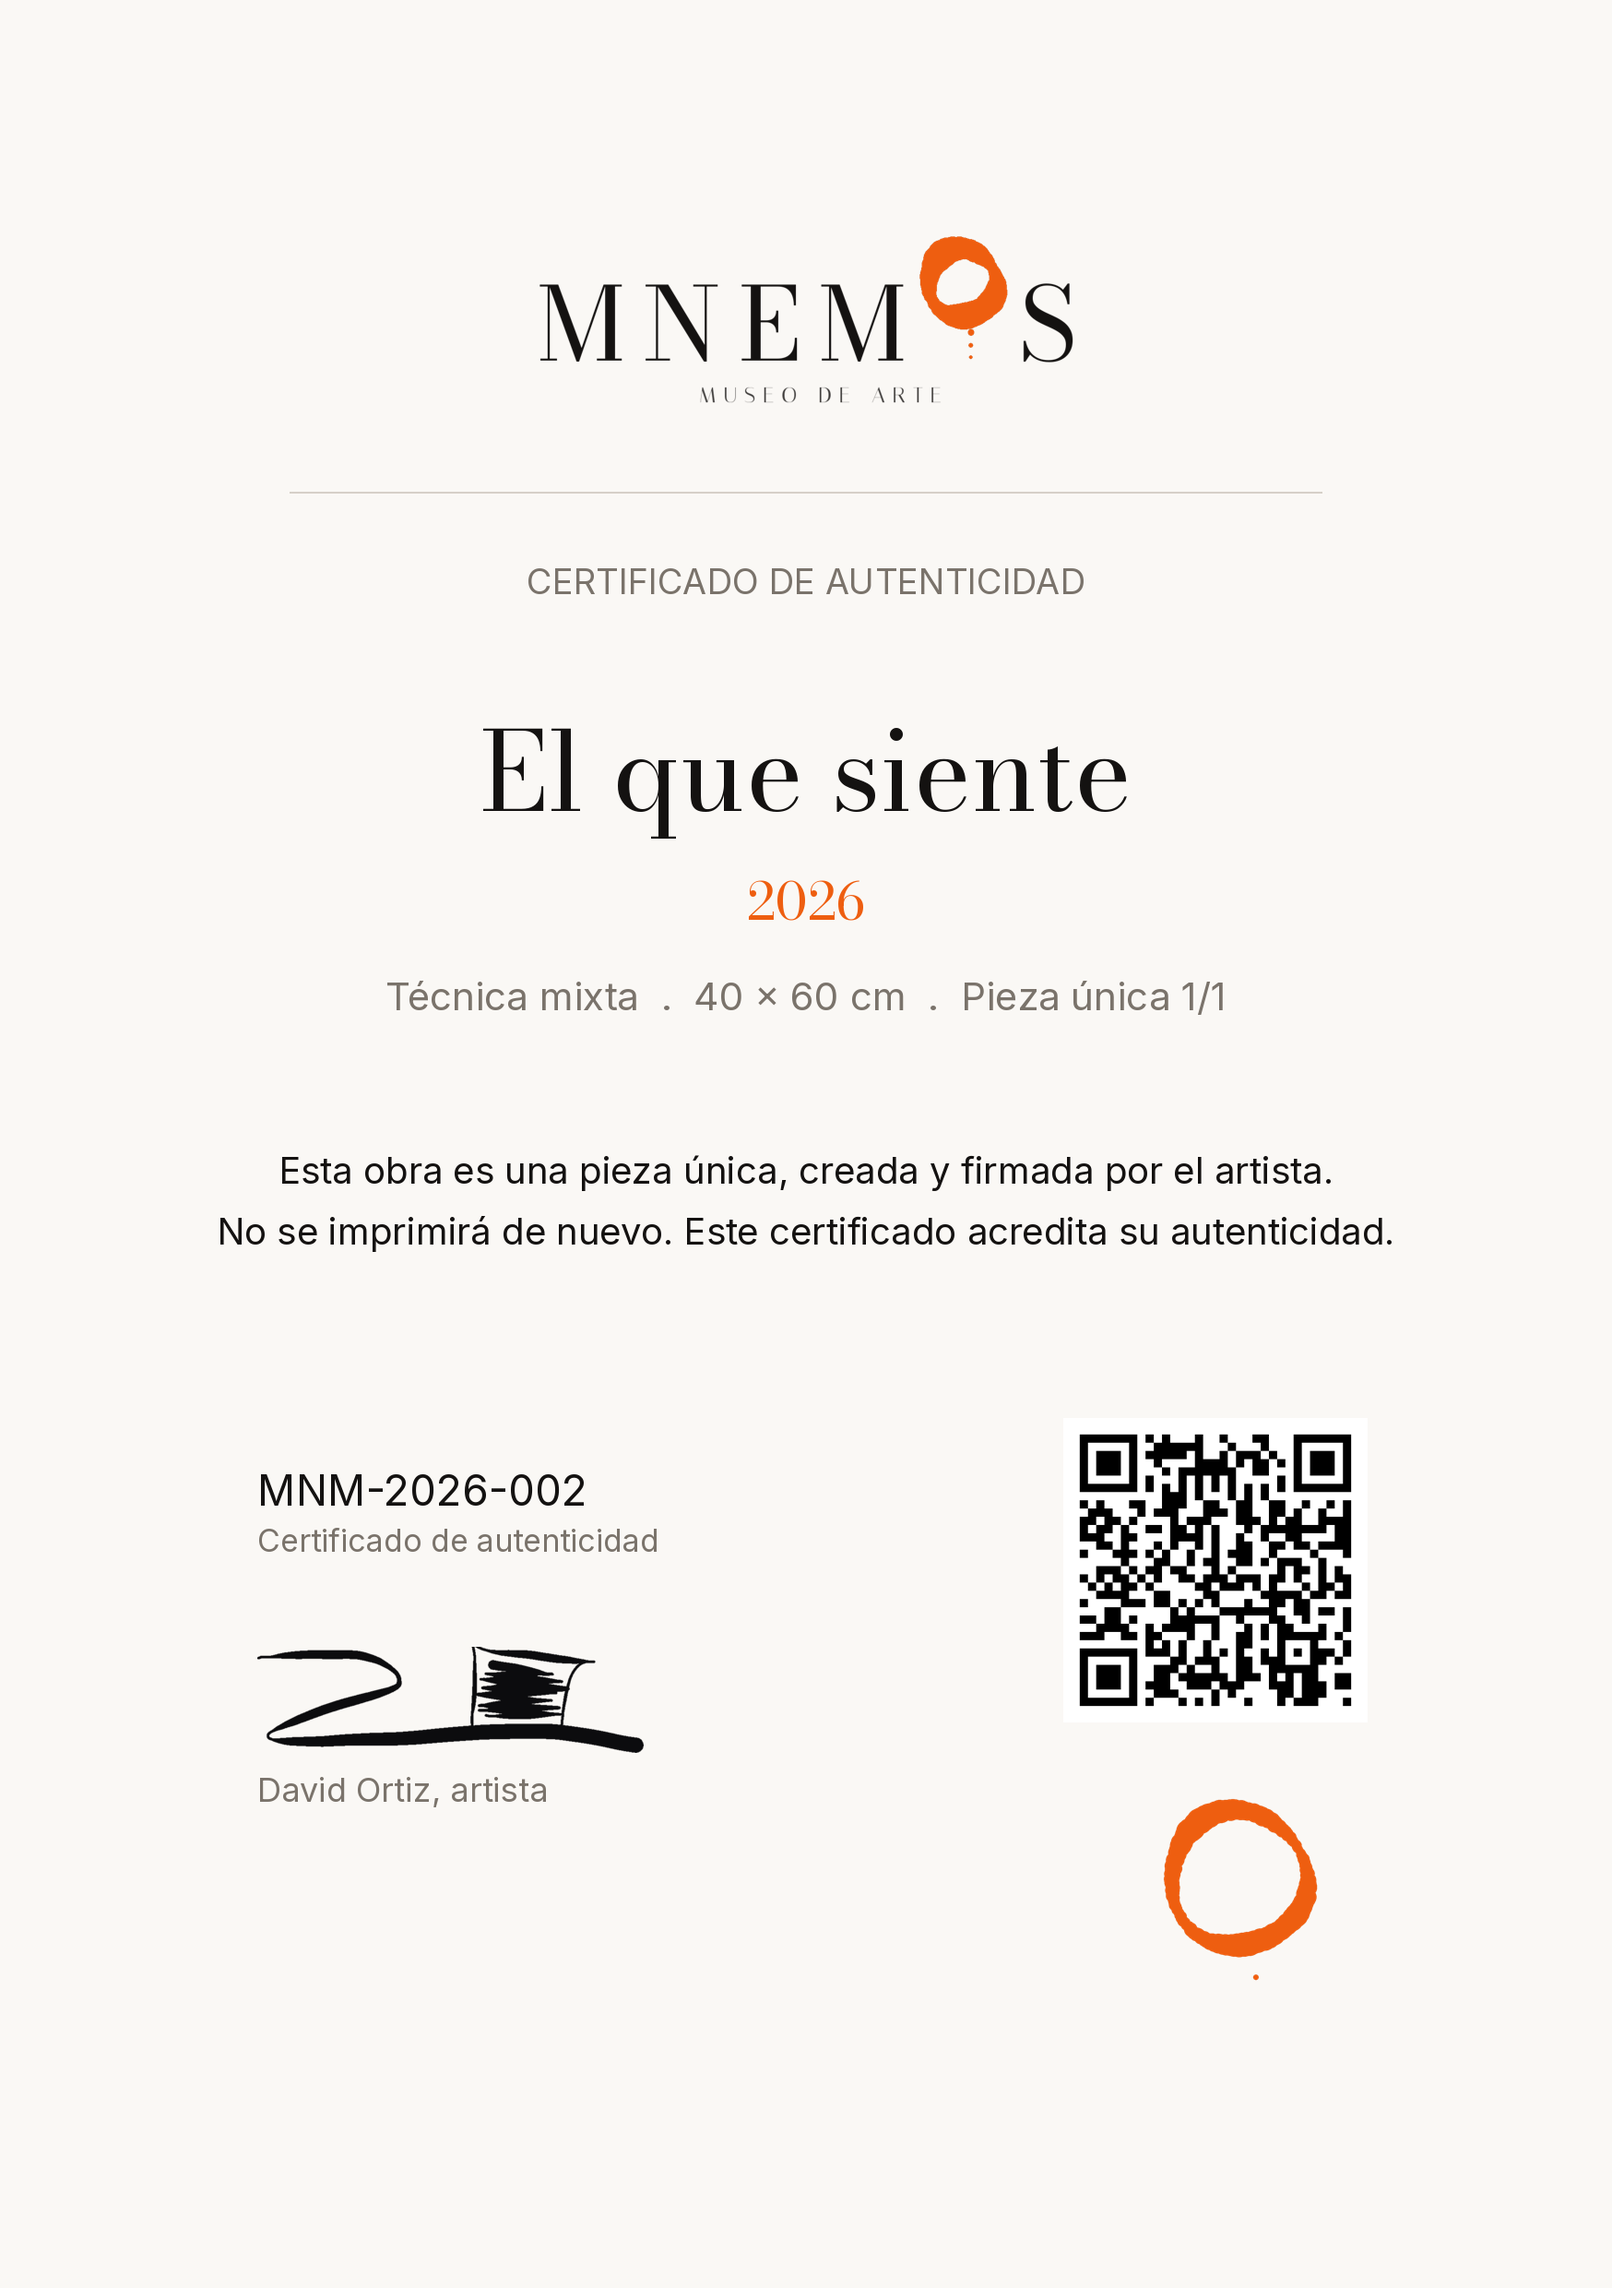
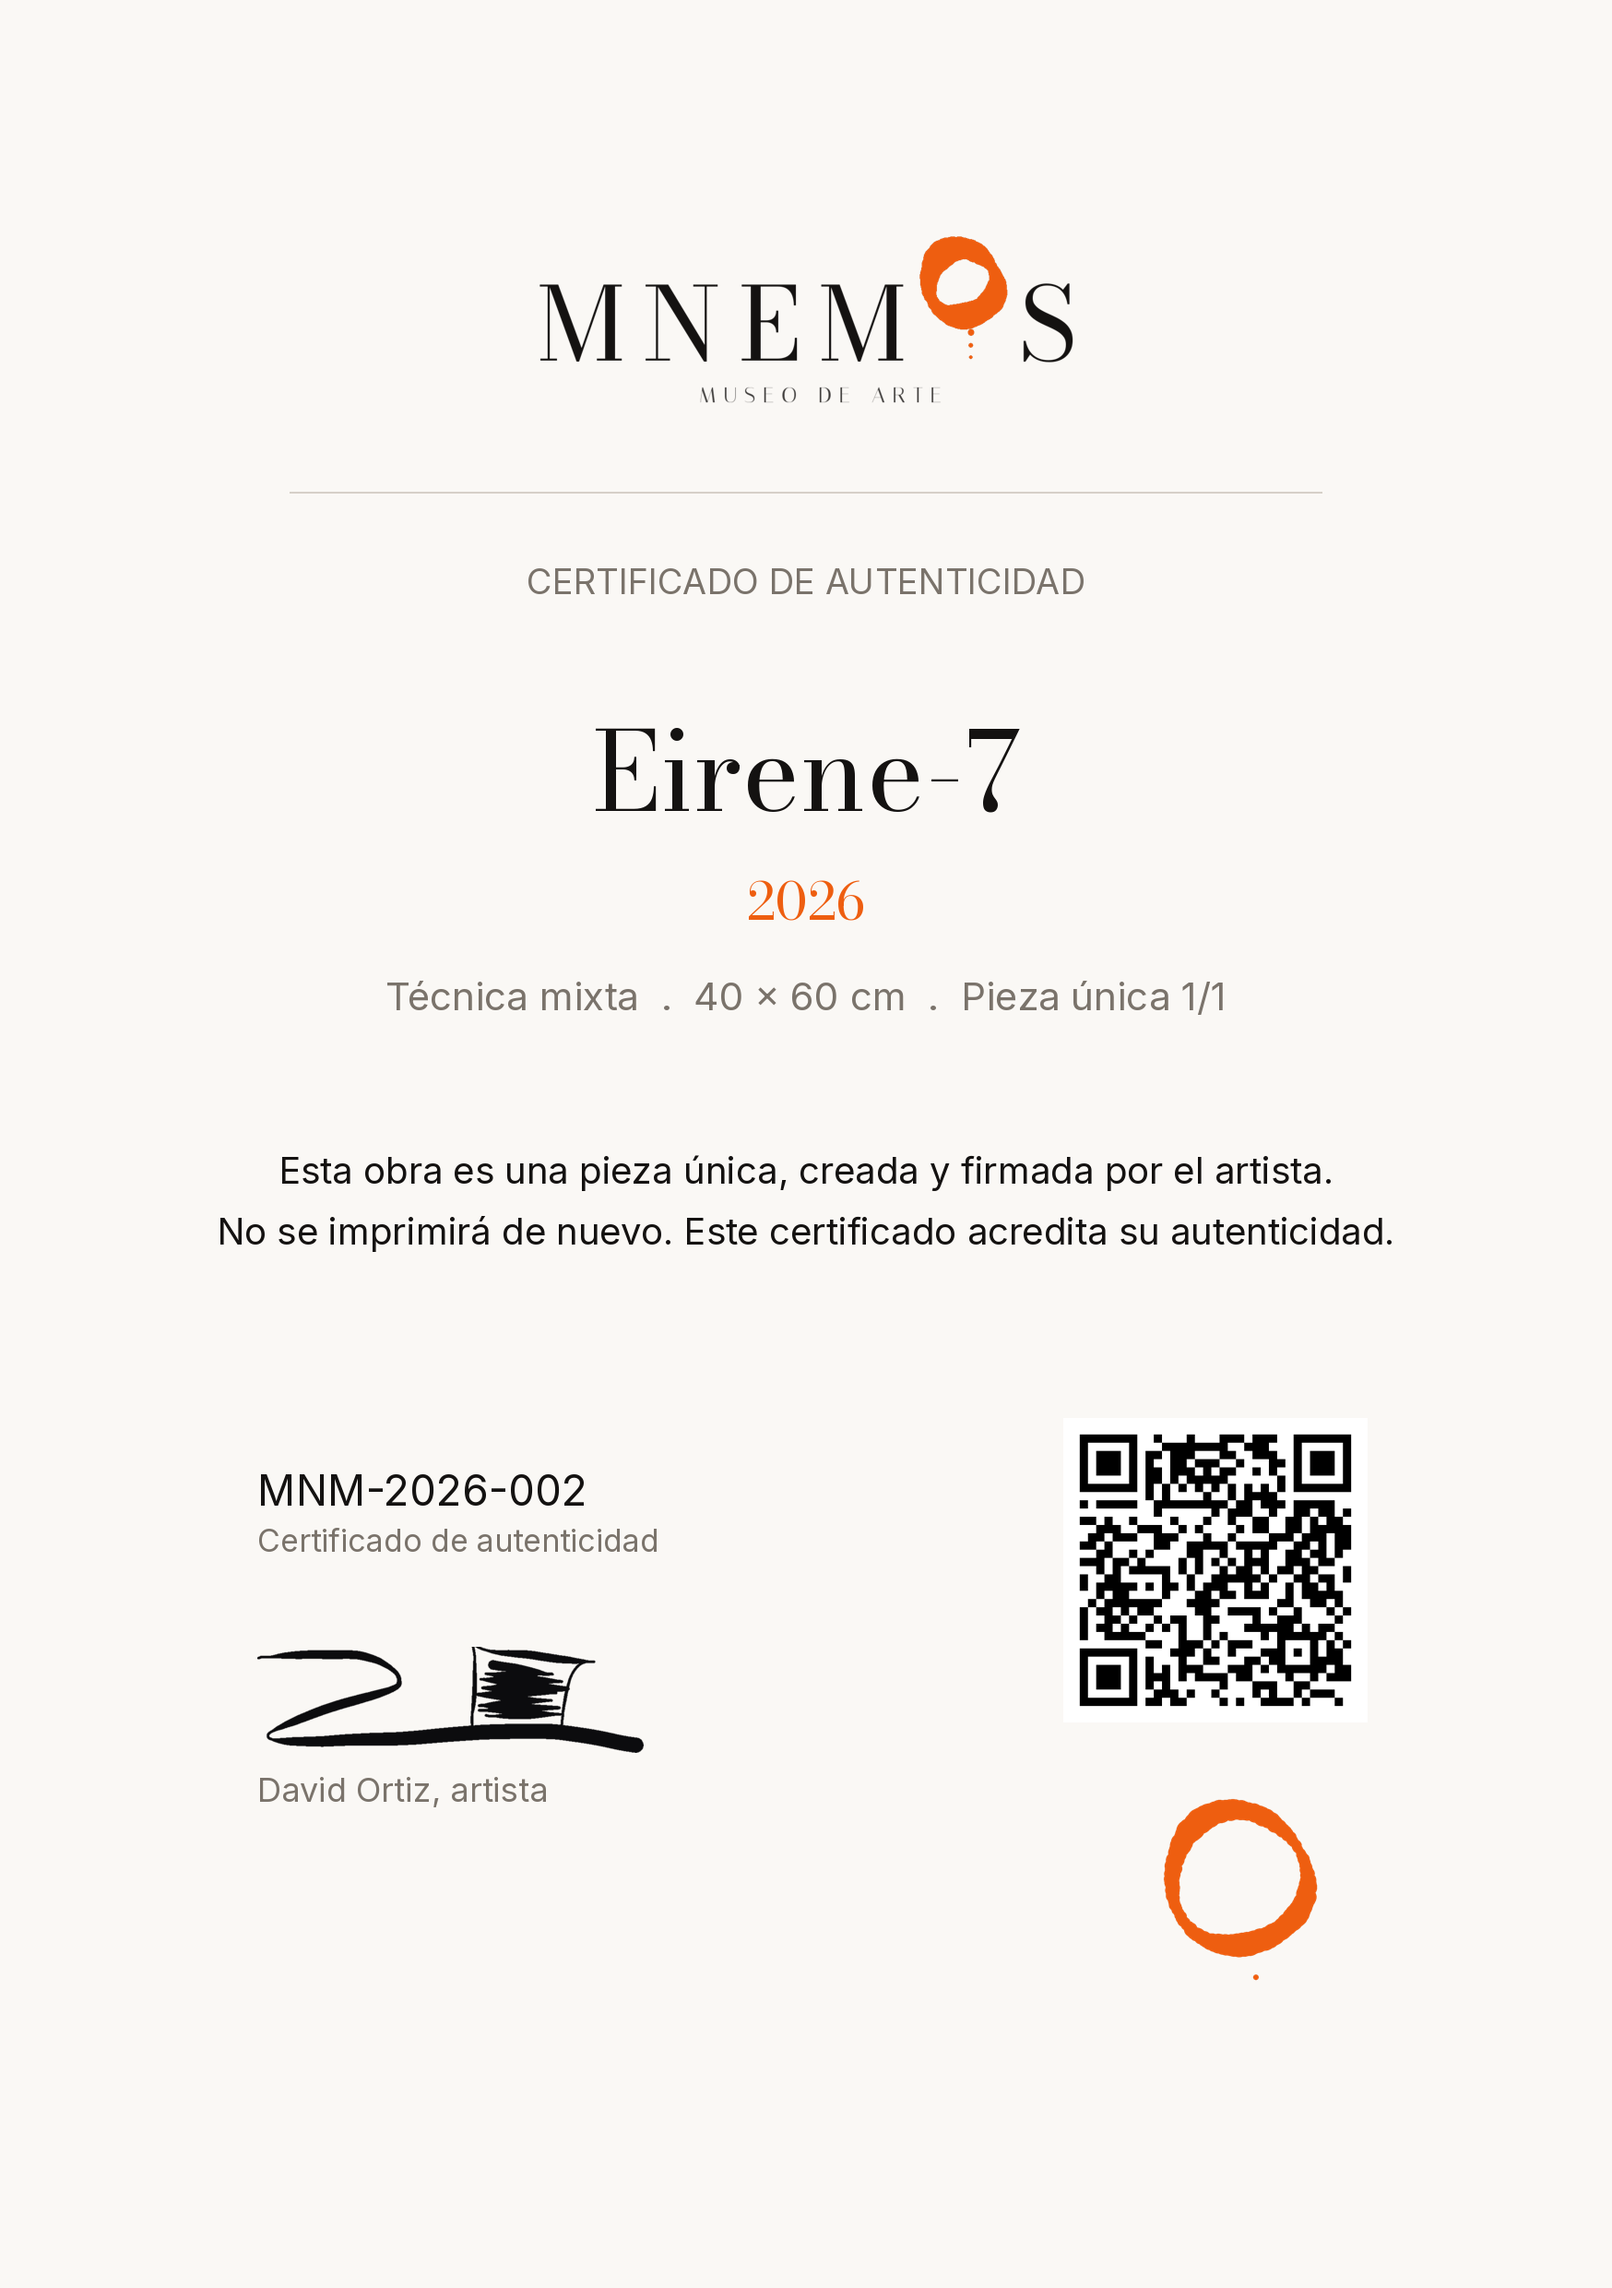
MNEMOS: ultimos restos del nombre viejo y certificados con el QR al dominio propio

Changed region(s): [[0.3089, 0.3105, 0.6796, 0.3726], [0.6487, 0.621, 0.8341, 0.7452]]

diff --git a/index.html b/index.html
@@ -24,7 +24,7 @@
     {"@type":"Person","@id":"https://mnemosgallery.neolabs.me/#artista","name":"David Ortiz","jobTitle":"Artista visual","description":"Artista visual. Trabaja en inteligencia artificial y pinta sobre lo que ve en ella."},
     {"@type":"CollectionPage","@id":"https://mnemosgallery.neolabs.me/#coleccion","name":"La colección FUTURE","description":"Doce obras sobre lo que viene. Cada pieza es original, única, firmada a mano y numerada.","isPartOf":{"@id":"https://mnemosgallery.neolabs.me/#museo"},"about":{"@id":"https://mnemosgallery.neolabs.me/#artista"},"hasPart":[
       {"@type":"VisualArtwork","@id":"https://mnemosgallery.neolabs.me/obras/espectadores.html","name":"Espectadores","dateCreated":"2026","artform":"Técnica mixta","artMedium":"Impresión giclée sobre papel fine art mate de archivo 200 g/m²","width":{"@type":"QuantitativeValue","value":40,"unitCode":"CMT"},"height":{"@type":"QuantitativeValue","value":60,"unitCode":"CMT"},"creator":{"@id":"https://mnemosgallery.neolabs.me/#artista"},"description":"La sociedad mira cómo el mundo avanza hacia lo desconocido sin poder tomar el control.","image":"https://mnemosgallery.neolabs.me/assets/obras/obra01-1600.jpg","offers":{"@type":"Offer","price":"250","priceCurrency":"EUR","availability":"https://schema.org/InStock","itemCondition":"https://schema.org/NewCondition","url":"https://mnemosgallery.neolabs.me/obras/espectadores.html"}},
-      {"@type":"VisualArtwork","@id":"https://mnemosgallery.neolabs.me/obras/eirene-7.html","name":"Eirene-7","dateCreated":"2026","artform":"Técnica mixta","artMedium":"Impresión giclée sobre papel fine art mate de archivo 200 g/m²","width":{"@type":"QuantitativeValue","value":40,"unitCode":"CMT"},"height":{"@type":"QuantitativeValue","value":60,"unitCode":"CMT"},"creator":{"@id":"https://mnemosgallery.neolabs.me/#artista"},"image":"https://mnemosgallery.neolabs.me/assets/obras/obra02-1600.jpg","offers":{"@type":"Offer","price":"250","priceCurrency":"EUR","availability":"https://schema.org/InStock","itemCondition":"https://schema.org/NewCondition","url":"https://mnemosgallery.neolabs.me/obras/el-que-siente.html"}}
+      {"@type":"VisualArtwork","@id":"https://mnemosgallery.neolabs.me/obras/eirene-7.html","name":"Eirene-7","dateCreated":"2026","artform":"Técnica mixta","artMedium":"Impresión giclée sobre papel fine art mate de archivo 200 g/m²","width":{"@type":"QuantitativeValue","value":40,"unitCode":"CMT"},"height":{"@type":"QuantitativeValue","value":60,"unitCode":"CMT"},"creator":{"@id":"https://mnemosgallery.neolabs.me/#artista"},"image":"https://mnemosgallery.neolabs.me/assets/obras/obra02-1600.jpg","offers":{"@type":"Offer","price":"250","priceCurrency":"EUR","availability":"https://schema.org/InStock","itemCondition":"https://schema.org/NewCondition","url":"https://mnemosgallery.neolabs.me/obras/eirene-7.html"}}
     ]}
   ]
 }
@@ -88,7 +88,7 @@
         </div>
       </a>
       <a class="obra-card ap" data-obra="obra02" href="obras/eirene-7.html">
-        <img src="assets/obras/obra02-1600.jpg" srcset="assets/obras/obra02-900.jpg 900w, assets/obras/obra02-1600.jpg 1600w" sizes="(max-width:900px) 46vw, 30vw" alt="El que siente, obra original de David Ortiz" width="1600" height="2400" loading="lazy">
+        <img src="assets/obras/obra02-1600.jpg" srcset="assets/obras/obra02-900.jpg 900w, assets/obras/obra02-1600.jpg 1600w" sizes="(max-width:900px) 46vw, 30vw" alt="Eirene-7, obra original de David Ortiz" width="1600" height="2400" loading="lazy">
         <div class="obra-info">
           <h3>Eirene-7</h3>
           <p>2026 &middot; Técnica mixta &middot; 40 &times; 60 cm</p>
